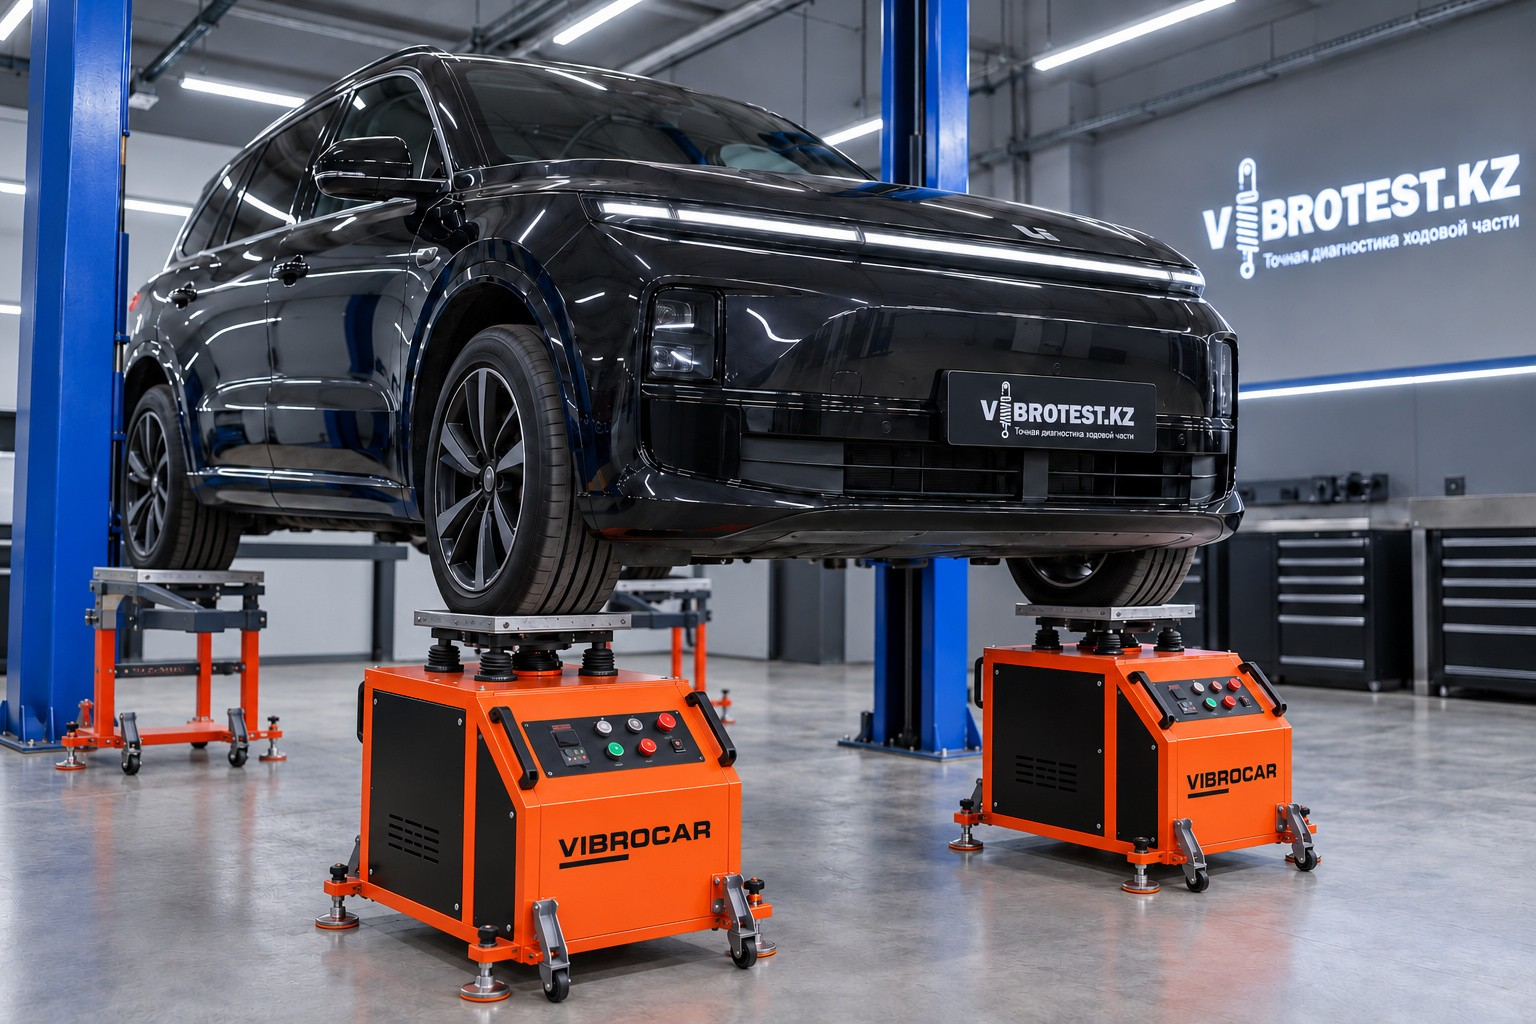
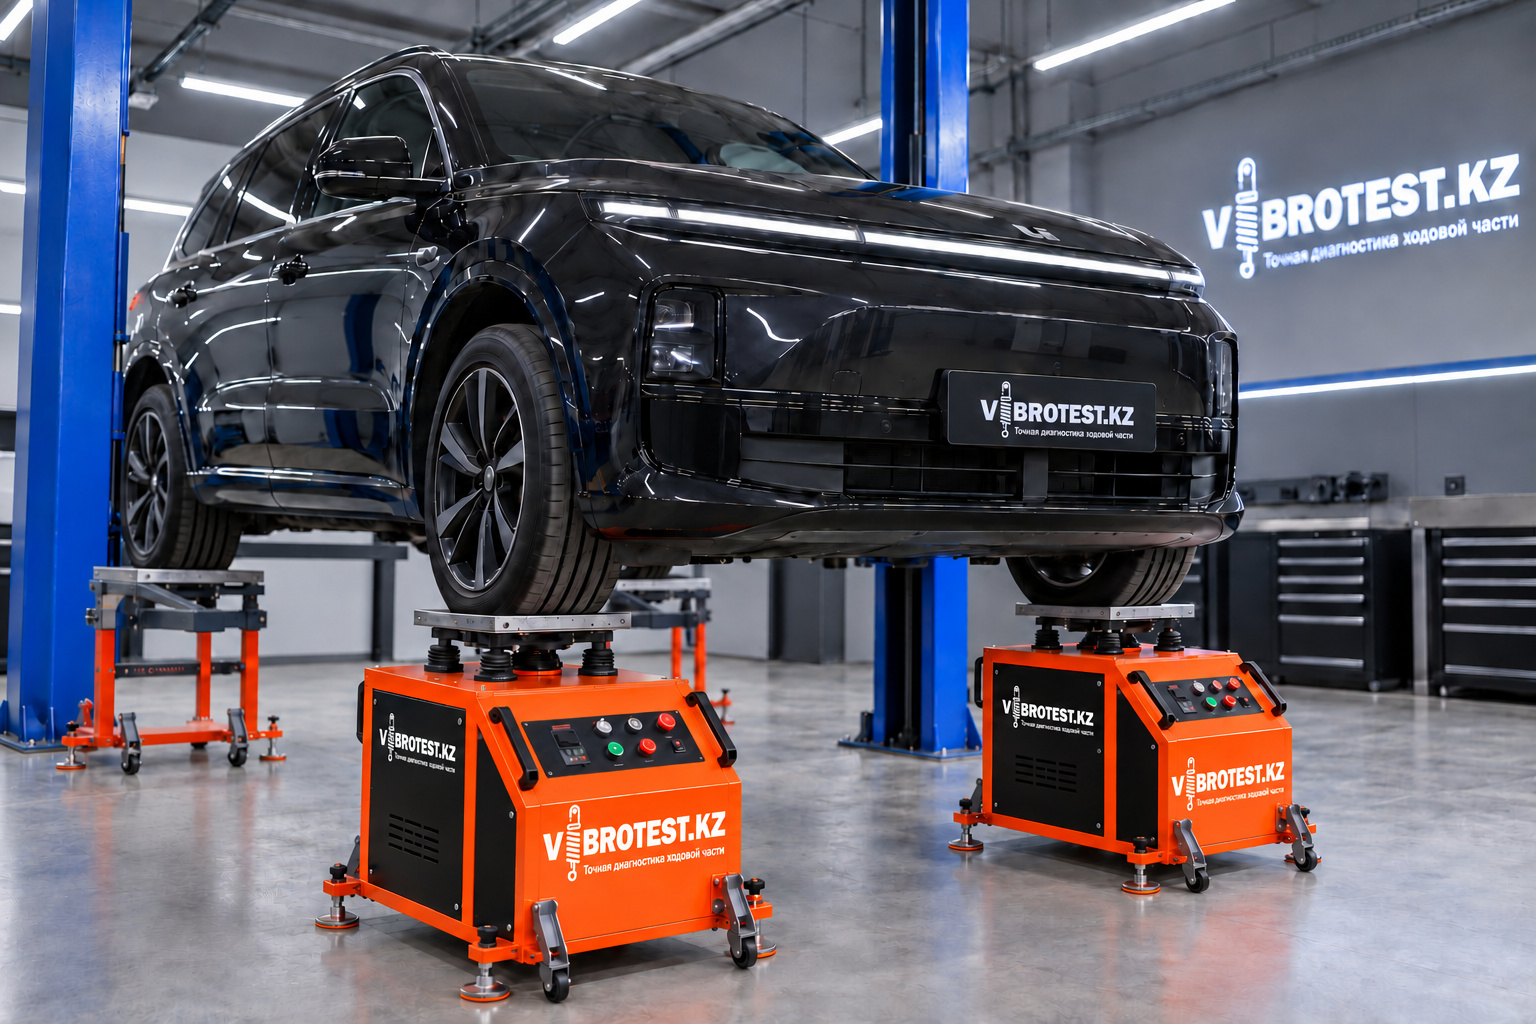
v2: new stand photo; bottom «Записаться» and services «Записаться» go straight to WhatsApp instead of the form
Claude-Session: https://claude.ai/code/session_01MQXXfW226b3wpHTdnoJWoA

diff --git a/v2.py b/v2.py
@@ -510,10 +510,6 @@ JS = r'''
 [].forEach.call(document.querySelectorAll('[data-dots]'),function(r){var d=r.parentNode.querySelector('.dots');if(!d)return;var dots=d.children;
  r.addEventListener('scroll',function(){var w=r.children[0].getBoundingClientRect().width+(parseFloat(getComputedStyle(r).columnGap)||12),k=r.scrollLeft>=r.scrollWidth-r.clientWidth-4?dots.length-1:Math.min(dots.length-1,Math.round(r.scrollLeft/w));
   [].forEach.call(dots,function(s,j){s.classList.toggle('on',j===k)});r.parentNode.classList.toggle('at-end',k===dots.length-1)},{passive:true})});
-// the bottom «Записаться» opens the three-field form when the page has one
-(function(){var b=document.querySelector('.bb .mbtn');if(!b)return;b.addEventListener('click',function(e){
- var f=[].filter.call(document.querySelectorAll('form[data-book]'),function(x){return x.offsetParent!==null})[0];if(!f)return;
- e.preventDefault();f.scrollIntoView({behavior:'smooth',block:'center'});setTimeout(function(){var i=f.querySelector('input,select');if(i)i.focus({preventScroll:true})},500)})})();
 // phones: the bottom «Записаться / звонок» bar steps aside while another booking button is on screen
 (function(){var bb=document.querySelector('.bb');if(!bb||!('IntersectionObserver' in window))return;
  var seen=new Set(),io=new IntersectionObserver(function(es){es.forEach(function(e){e.intersectionRatio>=.5?seen.add(e.target):seen.delete(e.target)});
@@ -1685,6 +1681,7 @@ def wa_text(doc, kk):
     msg = quote((WA_STAND if stand else WA_MSG)[kk], safe='')
     if stand:
         doc = doc.replace('?text=' + quote(WA_MSG[kk], safe=''), '?text=' + msg)
+    doc = doc.replace('href="#book"', 'href="https://wa.me/77474956165"')
     return re.sub(r'href="(https://wa\.me/\d+)"', lambda m: f'href="{m.group(1)}?text={msg}"', doc)
 
 
